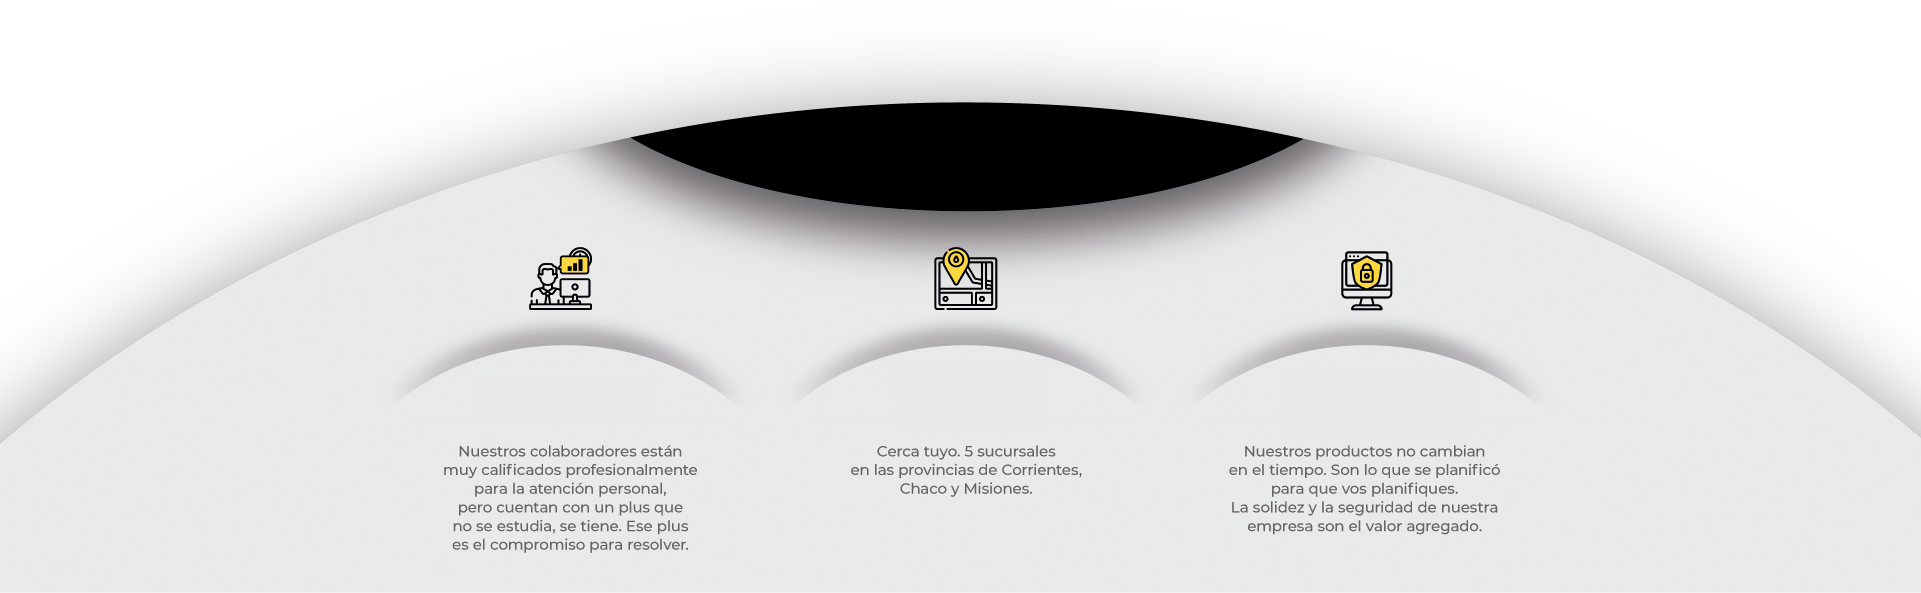
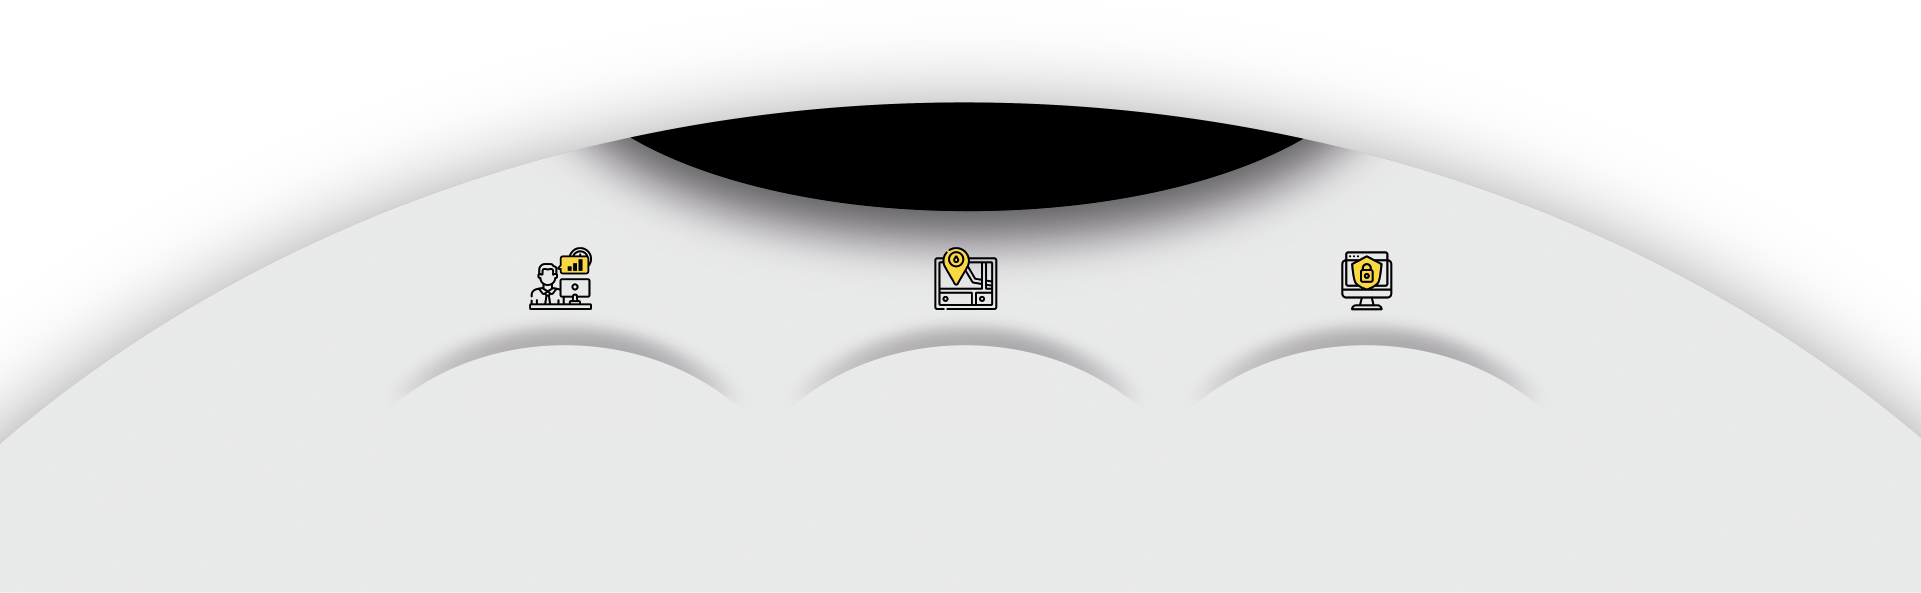
Update

Changed region(s): [[0.2186, 0.7589, 0.3748, 0.941], [0.6247, 0.7589, 0.7808, 0.9106], [0.4373, 0.7589, 0.5622, 0.8499]]

diff --git a/css/style.css b/css/style.css
@@ -160,7 +160,7 @@ body {
     min-height: 30vw;
 }
 
-.company div.col-4 {
+.company div.col {
     position: relative;
 }
 .company div.col-12 h4 {
@@ -173,11 +173,17 @@ body {
     margin-left: auto; 
     margin-right: auto;
 }
-.company div.col-4 h5 {
+.company div.col h5 {
     position: absolute;
     color: #616463;
     font-weight: 600;
     letter-spacing: .06em;
+}
+.company div.col p {
+    position: absolute;
+    color: #616463;
+    letter-spacing: .06em;
+    line-height: 1vw;
 }
 @media only screen and (max-width: 599px) {
 
@@ -395,23 +401,40 @@ body {
         top: 1.9vw;
         right: 11.3vw;
     }
-    .company div.col-4 h5 {
+    .company div.col h5 {
         font-size: 1.275vw;
     }
     .company div.col-12 h4 {
         font-size: 1.49vw;
         top: 6.54vw;
     }
-    .company div.col-4:nth-child(1) h5 {
+    .company div.col:nth-child(1) h5 {
         top: 19.6vw;
         left: 25.25vw;
     }
-    .company div.col-4:nth-child(2) h5 {
+    .company div.col:nth-child(2) h5 {
         top: 18.9vw;
         left: 13.5vw;
     }
-    .company div.col-4:nth-child(3) h5 {
+    .company div.col:nth-child(3) h5 {
         top: 18.9vw;
         left: 0vw;
+    }
+    .company div.col p {
+        font-size: .75vw;
+        min-width: 20vw;
+    }
+    .company div.col:nth-child(1) p {
+        top: 22.5vw;
+        left: 19.2vw;
+      
+    }
+    .company div.col:nth-child(2) p {
+        top: 22.5vw;
+        left: 6.9vw;
+    }
+    .company div.col:nth-child(3) p {
+        top: 22.5vw;
+        left: -5.9vw;
     }
 }

diff --git a/index.html b/index.html
@@ -102,14 +102,17 @@
       </div>
     </div>
     <div class="row">
-      <div class="col-4">
+      <div class="col">
         <h5>ATENCIÓN</h5>
+        <p>Nuestros colaboradores están<br>muy calificados profesionalmente<br>para la atención personal,<br>pero cuentan con un plus que<br>no se estudia, se tiene. Ese plus<br>es el compromiso para resolver.</p>
       </div>
-      <div class="col-4">
+      <div class="col">
         <h5>ESTAMOS<br>ACÁ</h5>
+        <p>Cerca tuyo. 5 sucursales<br>en las provincias de Corrientes,<br>Chaco y Misiones.</p>
       </div>
-      <div class="col-4">
+      <div class="col">
         <h5>SEGURIDAD<br>Y SOLIDEZ</h5>
+        <p>Nuestros productos no cambian<br>en el tiempo. Son lo que se planificó<br>para que vos planifiques.<br>La solidez y la seguridad de nuestra<br>empresa son el valor agregado.</p>
       </div>
     </div>
   </div>
